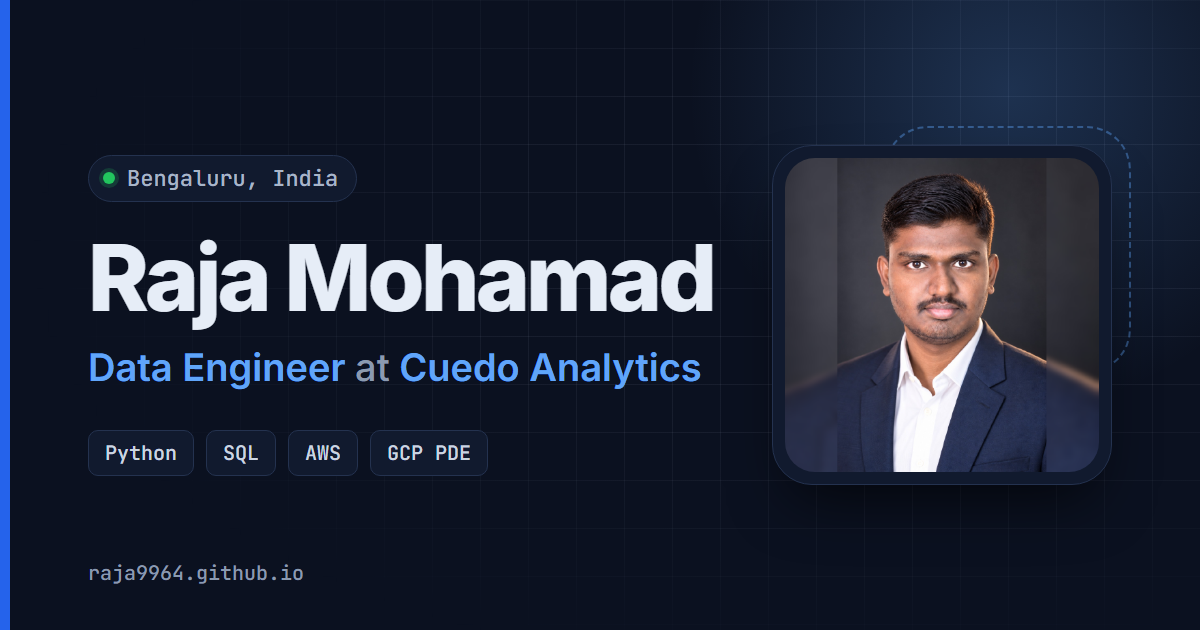
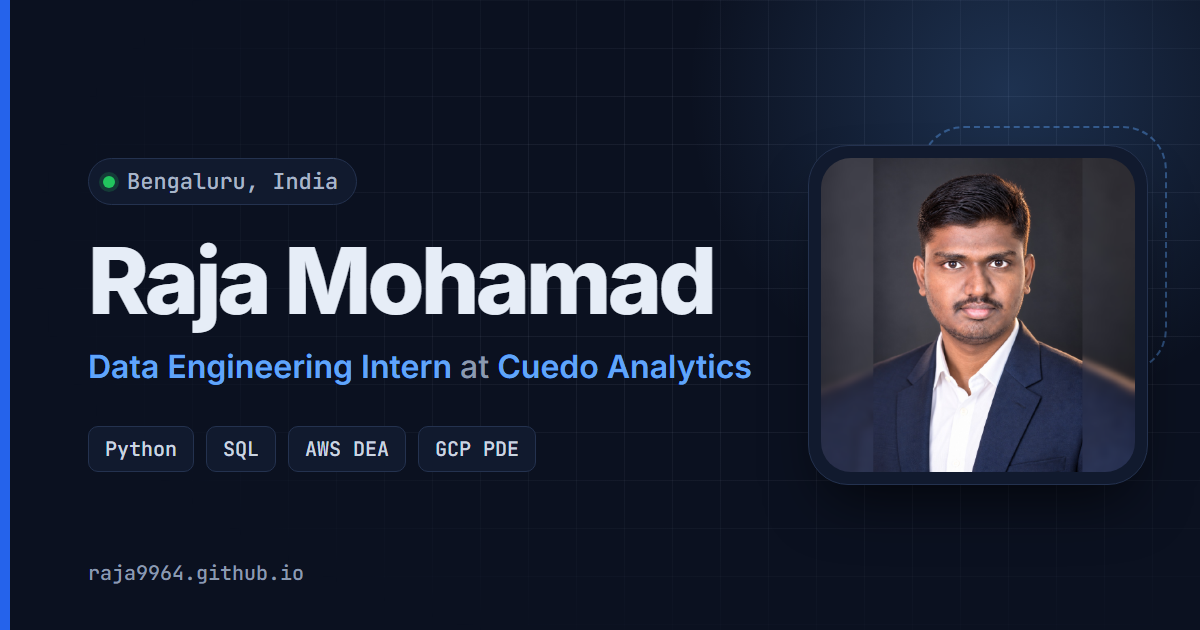
Update role, certifications and projects from resume

diff --git a/assets/js/data.js b/assets/js/data.js
@@ -1,7 +1,7 @@
 // Everything personal on the site lives here. Edit this file, commit, done.
 window.SITE_DATA = {
   name: "Raja Mohamad",
-  title: "Data Engineer",
+  title: "Data Engineering Intern",
   company: "Cuedo Analytics",
   location: "Bengaluru, India",
   tagline:
@@ -20,12 +20,12 @@ window.SITE_DATA = {
   links: {
     linkedin: "https://www.linkedin.com/in/raja-mohamad-711161262",
     github: "https://github.com/Raja9964",
-    email: "" // add an address here to show an Email button
+    email: "raja123.mrb@gmail.com"
   },
 
   highlights: [
+    { value: "AWS", label: "Certified Data Engineer – Associate" },
     { value: "GCP", label: "Professional Data Engineer" },
-    { value: "IEEE", label: "Published author" },
     { value: "9.16", label: "CGPA in B.Tech CSE" }
   ],
 
@@ -35,21 +35,21 @@ window.SITE_DATA = {
   },
 
   about: [
-    "I'm a Data Engineer at Cuedo Analytics in Bengaluru, where I build ETL pipelines in Python and SQL and cloud data migration workflows on AWS using Glue, DMS, S3 and Redshift.",
+    "I'm a Data Engineering Intern at Cuedo Analytics in Bengaluru, where I build production data pipelines in Python and SQL that load client datasets into PostgreSQL and Amazon Redshift.",
     "I care about data people can trust, so validation, reconciliation between source and target systems, and query performance are part of every pipeline I ship.",
-    "I'm a Google Cloud certified Professional Data Engineer and a published IEEE author, and I studied Computer Science and Engineering at Dayananda Sagar University with a CGPA of 9.16.",
-    "Right now I'm focused on cloud data migration and on building lakehouse-style analytics projects with dbt and DuckDB."
+    "I hold the AWS Certified Data Engineer – Associate and Google Cloud Professional Data Engineer certifications, and I studied Computer Science and Engineering at Dayananda Sagar University (2022 – 2026) with a CGPA of 9.16.",
+    "Outside work I build lakehouse-style analytics projects with dbt and DuckDB, and I've worked on machine learning projects in healthcare and voice AI."
   ],
 
   facts: [
-    { label: "Role", value: "Data Engineer" },
+    { label: "Role", value: "Data Engineering Intern" },
     { label: "Company", value: "Cuedo Analytics" },
     { label: "Based in", value: "Bengaluru, India" },
     { label: "Focus", value: "ETL, data warehousing, cloud migration" }
   ],
 
   skills: [
-    { group: "Languages", icon: "code", items: ["Python", "SQL", "Java", "TypeScript"] },
+    { group: "Languages", icon: "code", items: ["Python", "SQL", "Java", "JavaScript"] },
     {
       group: "Data Engineering",
       icon: "pipeline",
@@ -66,34 +66,42 @@ window.SITE_DATA = {
     {
       group: "Cloud",
       icon: "cloud",
-      items: ["AWS Glue", "AWS DMS", "Amazon S3", "Amazon Redshift", "Google Cloud", "BigQuery"]
+      items: [
+        "AWS Glue",
+        "AWS DMS",
+        "Amazon S3",
+        "Amazon Redshift",
+        "AWS Lambda",
+        "Step Functions",
+        "Amazon Bedrock",
+        "Google Cloud"
+      ]
     },
     { group: "Databases", icon: "database", items: ["PostgreSQL", "MySQL", "MongoDB", "DuckDB"] },
     {
       group: "Tools",
       icon: "tools",
-      items: ["GitHub Actions", "Playwright", "Flask", "Django", "React", "Node.js", "Express"]
+      items: ["Git", "Docker", "GitHub Actions", "REST APIs", "Flask", "Django", "React", "Node.js"]
     },
-    { group: "BI", icon: "chart", items: ["Power BI", "Streamlit"] }
+    { group: "ML & BI", icon: "chart", items: ["TensorFlow", "Scikit-learn", "Power BI", "Tableau", "Streamlit"] }
   ],
 
   experience: [
     {
-      role: "Data Engineer",
+      role: "Data Engineering Intern",
       company: "Cuedo Analytics",
       location: "Bengaluru, India",
       start: "Feb 2026",
       end: "Present",
       points: [
-        "Develop ETL pipelines using Python and SQL.",
-        "Build cloud data migration workflows with AWS Glue, AWS DMS, Amazon S3 and Amazon Redshift.",
-        "Run data validation and reconciliation across PostgreSQL and Redshift.",
-        "Optimize SQL queries and contribute to analytics-ready datasets.",
-        "Work on cloud-based data engineering solutions and production support."
+        "Built production data pipelines in Python and SQL to ingest and transform client datasets into PostgreSQL and Amazon Redshift.",
+        "Developed SQL validation and reconciliation checks across source and target systems to verify row counts, totals and data consistency.",
+        "Implemented data-quality checks and optimized Redshift queries for analytical workloads.",
+        "Executed disaster-recovery test runs on production workflows and documented pipelines for cross-team handoff."
       ],
       highlight: {
-        title: "Cloud data migration: PostgreSQL to Amazon Redshift",
-        tags: ["AWS Glue", "AWS DMS", "Amazon S3", "Amazon Redshift", "PostgreSQL"]
+        title: "Cloud data migration: PostgreSQL to Amazon Redshift (full load + CDC)",
+        tags: ["AWS DMS", "AWS Glue", "PySpark", "Amazon S3", "Amazon Redshift"]
       }
     }
   ],
@@ -147,27 +155,36 @@ window.SITE_DATA = {
         "Playwright + TypeScript test automation framework with Page Object Model, fixtures, UI and API suites, and CI reports.",
       tags: ["Playwright", "TypeScript", "CI/CD"],
       url: "https://github.com/Raja9964/Pagewright"
+    },
+    {
+      name: "Multi-Disease Health Risk Assessment",
+      description:
+        "Machine learning and deep learning models for cardiovascular, pulmonary, retinal and renal risk assessment, served through a Flask web app.",
+      tags: ["Python", "TensorFlow", "Scikit-learn", "U-Net", "MobileNetV2", "Flask"],
+      url: ""
+    },
+    {
+      name: "SeniorConnect",
+      description:
+        "Multilingual voice assistant that helps elderly users reach government welfare services by speaking in regional Indian languages.",
+      tags: ["Voice AI", "NLP", "Speech-to-Text"],
+      url: ""
     }
   ],
 
   certifications: [
+    { name: "AWS Certified Data Engineer – Associate", issuer: "Amazon Web Services" },
     { name: "Professional Data Engineer", issuer: "Google Cloud" },
     { name: "Data Analysis with Python", issuer: "IBM" },
     { name: "Big Data 101", issuer: "IBM" },
     { name: "Power BI", issuer: "Microsoft" }
   ],
 
-  publication: {
-    title: "AI-Driven Multi-Modal Health Risk Assessment",
-    venue: "IEEE ICISC 2025",
-    summary: "Peer-reviewed research on assessing health risk by combining multiple data modalities.",
-    tags: ["TensorFlow", "Scikit-learn", "Streamlit"],
-    url: "" // add the IEEE Xplore link when it's available
-  },
+  publication: null,
 
   achievements: [
-    { title: "Code Red Hackathon", detail: "3rd place", icon: "trophy" },
-    { title: "IEEE published author", detail: "ICISC 2025", icon: "file" },
+    { title: "Code Red Hackathon", detail: "3rd place · DSU ACM, 2024", icon: "trophy" },
+    { title: "AWS Certified Data Engineer – Associate", detail: "Certified", icon: "award" },
     { title: "Google Cloud Professional Data Engineer", detail: "Certified", icon: "award" }
   ],
 
@@ -176,13 +193,13 @@ window.SITE_DATA = {
       degree: "B.Tech, Computer Science and Engineering",
       school: "Dayananda Sagar University",
       location: "Bengaluru, India",
-      period: "", // e.g. "2022 – 2026"
+      period: "2022 – 2026",
       grade: "CGPA 9.16 / 10"
     }
   ],
 
   contact: {
     heading: "Let's talk data.",
-    text: "I'm always happy to talk about data engineering roles, pipelines and cloud projects. The quickest way to reach me is LinkedIn."
+    text: "I'm always happy to talk about data engineering roles, pipelines and cloud projects. Email or LinkedIn is the quickest way to reach me."
   }
 };

diff --git a/index.html b/index.html
@@ -3,8 +3,8 @@
 <head>
   <meta charset="utf-8">
   <meta name="viewport" content="width=device-width, initial-scale=1">
-  <title>Raja Mohamad | Data Engineer</title>
-  <meta name="description" content="Raja Mohamad is a Data Engineer in Bengaluru, India, building ETL pipelines and cloud data platforms with Python, SQL, AWS and Google Cloud.">
+  <title>Raja Mohamad | Data Engineering Portfolio</title>
+  <meta name="description" content="Raja Mohamad is a Data Engineering Intern at Cuedo Analytics in Bengaluru, India, building ETL pipelines and cloud data platforms with Python, SQL, AWS and Google Cloud.">
   <meta name="author" content="Raja Mohamad">
   <link rel="canonical" href="https://raja9964.github.io/">
   <meta name="color-scheme" content="light dark">
@@ -13,20 +13,20 @@
 
   <meta property="og:type" content="website">
   <meta property="og:site_name" content="Raja Mohamad">
-  <meta property="og:title" content="Raja Mohamad | Data Engineer">
-  <meta property="og:description" content="Data Engineer in Bengaluru building ETL pipelines and cloud data platforms with Python, SQL, AWS and Google Cloud.">
+  <meta property="og:title" content="Raja Mohamad | Data Engineering Portfolio">
+  <meta property="og:description" content="Data Engineering Intern in Bengaluru building ETL pipelines and cloud data platforms with Python, SQL, AWS and Google Cloud.">
   <meta property="og:url" content="https://raja9964.github.io/">
   <meta property="og:image" content="https://raja9964.github.io/assets/img/og-image.png">
   <meta property="og:image:type" content="image/png">
   <meta property="og:image:width" content="1200">
   <meta property="og:image:height" content="630">
-  <meta property="og:image:alt" content="Raja Mohamad, Data Engineer">
+  <meta property="og:image:alt" content="Raja Mohamad, Data Engineering Intern">
   <meta property="og:locale" content="en_IN">
   <meta name="twitter:card" content="summary_large_image">
-  <meta name="twitter:title" content="Raja Mohamad | Data Engineer">
-  <meta name="twitter:description" content="Data Engineer in Bengaluru building ETL pipelines and cloud data platforms with Python, SQL, AWS and Google Cloud.">
+  <meta name="twitter:title" content="Raja Mohamad | Data Engineering Portfolio">
+  <meta name="twitter:description" content="Data Engineering Intern in Bengaluru building ETL pipelines and cloud data platforms with Python, SQL, AWS and Google Cloud.">
   <meta name="twitter:image" content="https://raja9964.github.io/assets/img/og-image.png">
-  <meta name="twitter:image:alt" content="Raja Mohamad, Data Engineer">
+  <meta name="twitter:image:alt" content="Raja Mohamad, Data Engineering Intern">
 
   <link rel="icon" href="favicon.svg" type="image/svg+xml">
   <link rel="apple-touch-icon" href="assets/img/apple-touch-icon.png">
@@ -143,7 +143,7 @@
       <div class="container">
         <div class="section-head reveal">
           <p class="kicker mono">05 / Credentials</p>
-          <h2 id="credentials-title">Certifications &amp; publication</h2>
+          <h2 id="credentials-title">Certifications</h2>
         </div>
         <div class="split" id="credentials-body"></div>
       </div>

diff --git a/assets/js/main.js b/assets/js/main.js
@@ -121,7 +121,7 @@
       '<p class="project-desc">' + esc(p.description) + '</p>' +
       flow +
       '<div class="project-foot">' + tags(p.tags) +
-        extLink(p.url, "View on GitHub", "text-link", "github") +
+        (p.url ? extLink(p.url, "View on GitHub", "text-link", "github") : "") +
       '</div>' +
     '</article>';
   }).join("");
@@ -136,7 +136,7 @@
           '<div><strong>' + esc(c.name) + '</strong><span>' + esc(c.issuer) + '</span></div></li>';
       }).join("") + '</ul>' +
     '</div>' +
-    '<div class="reveal">' +
+    (pub ? '<div class="reveal">' +
       '<h3 class="sub-head">Publication</h3>' +
       '<article class="card pub-card">' +
         '<p class="badge mono">' + esc(pub.venue) + '</p>' +
@@ -145,7 +145,7 @@
         tags(pub.tags) +
         (pub.url ? extLink(pub.url, "Read the paper", "text-link", "file") : "") +
       '</article>' +
-    '</div>';
+    '</div>' : '');
 
   // ---- Achievements & education ----
   $("education-body").innerHTML =

diff --git a/assets/css/styles.css b/assets/css/styles.css
@@ -765,6 +765,8 @@ svg.fill { fill: currentColor; stroke: none; }
 @media (min-width: 900px) { .split { grid-template-columns: repeat(2, minmax(0, 1fr)); gap: 48px; } }
 
 .cert-list { display: grid; gap: 12px; }
+.split > .reveal:only-child { grid-column: 1 / -1; }
+.split > .reveal:only-child .cert-list { grid-template-columns: repeat(auto-fill, minmax(min(100%, 320px), 1fr)); }
 .cert {
   display: flex;
   align-items: center;
